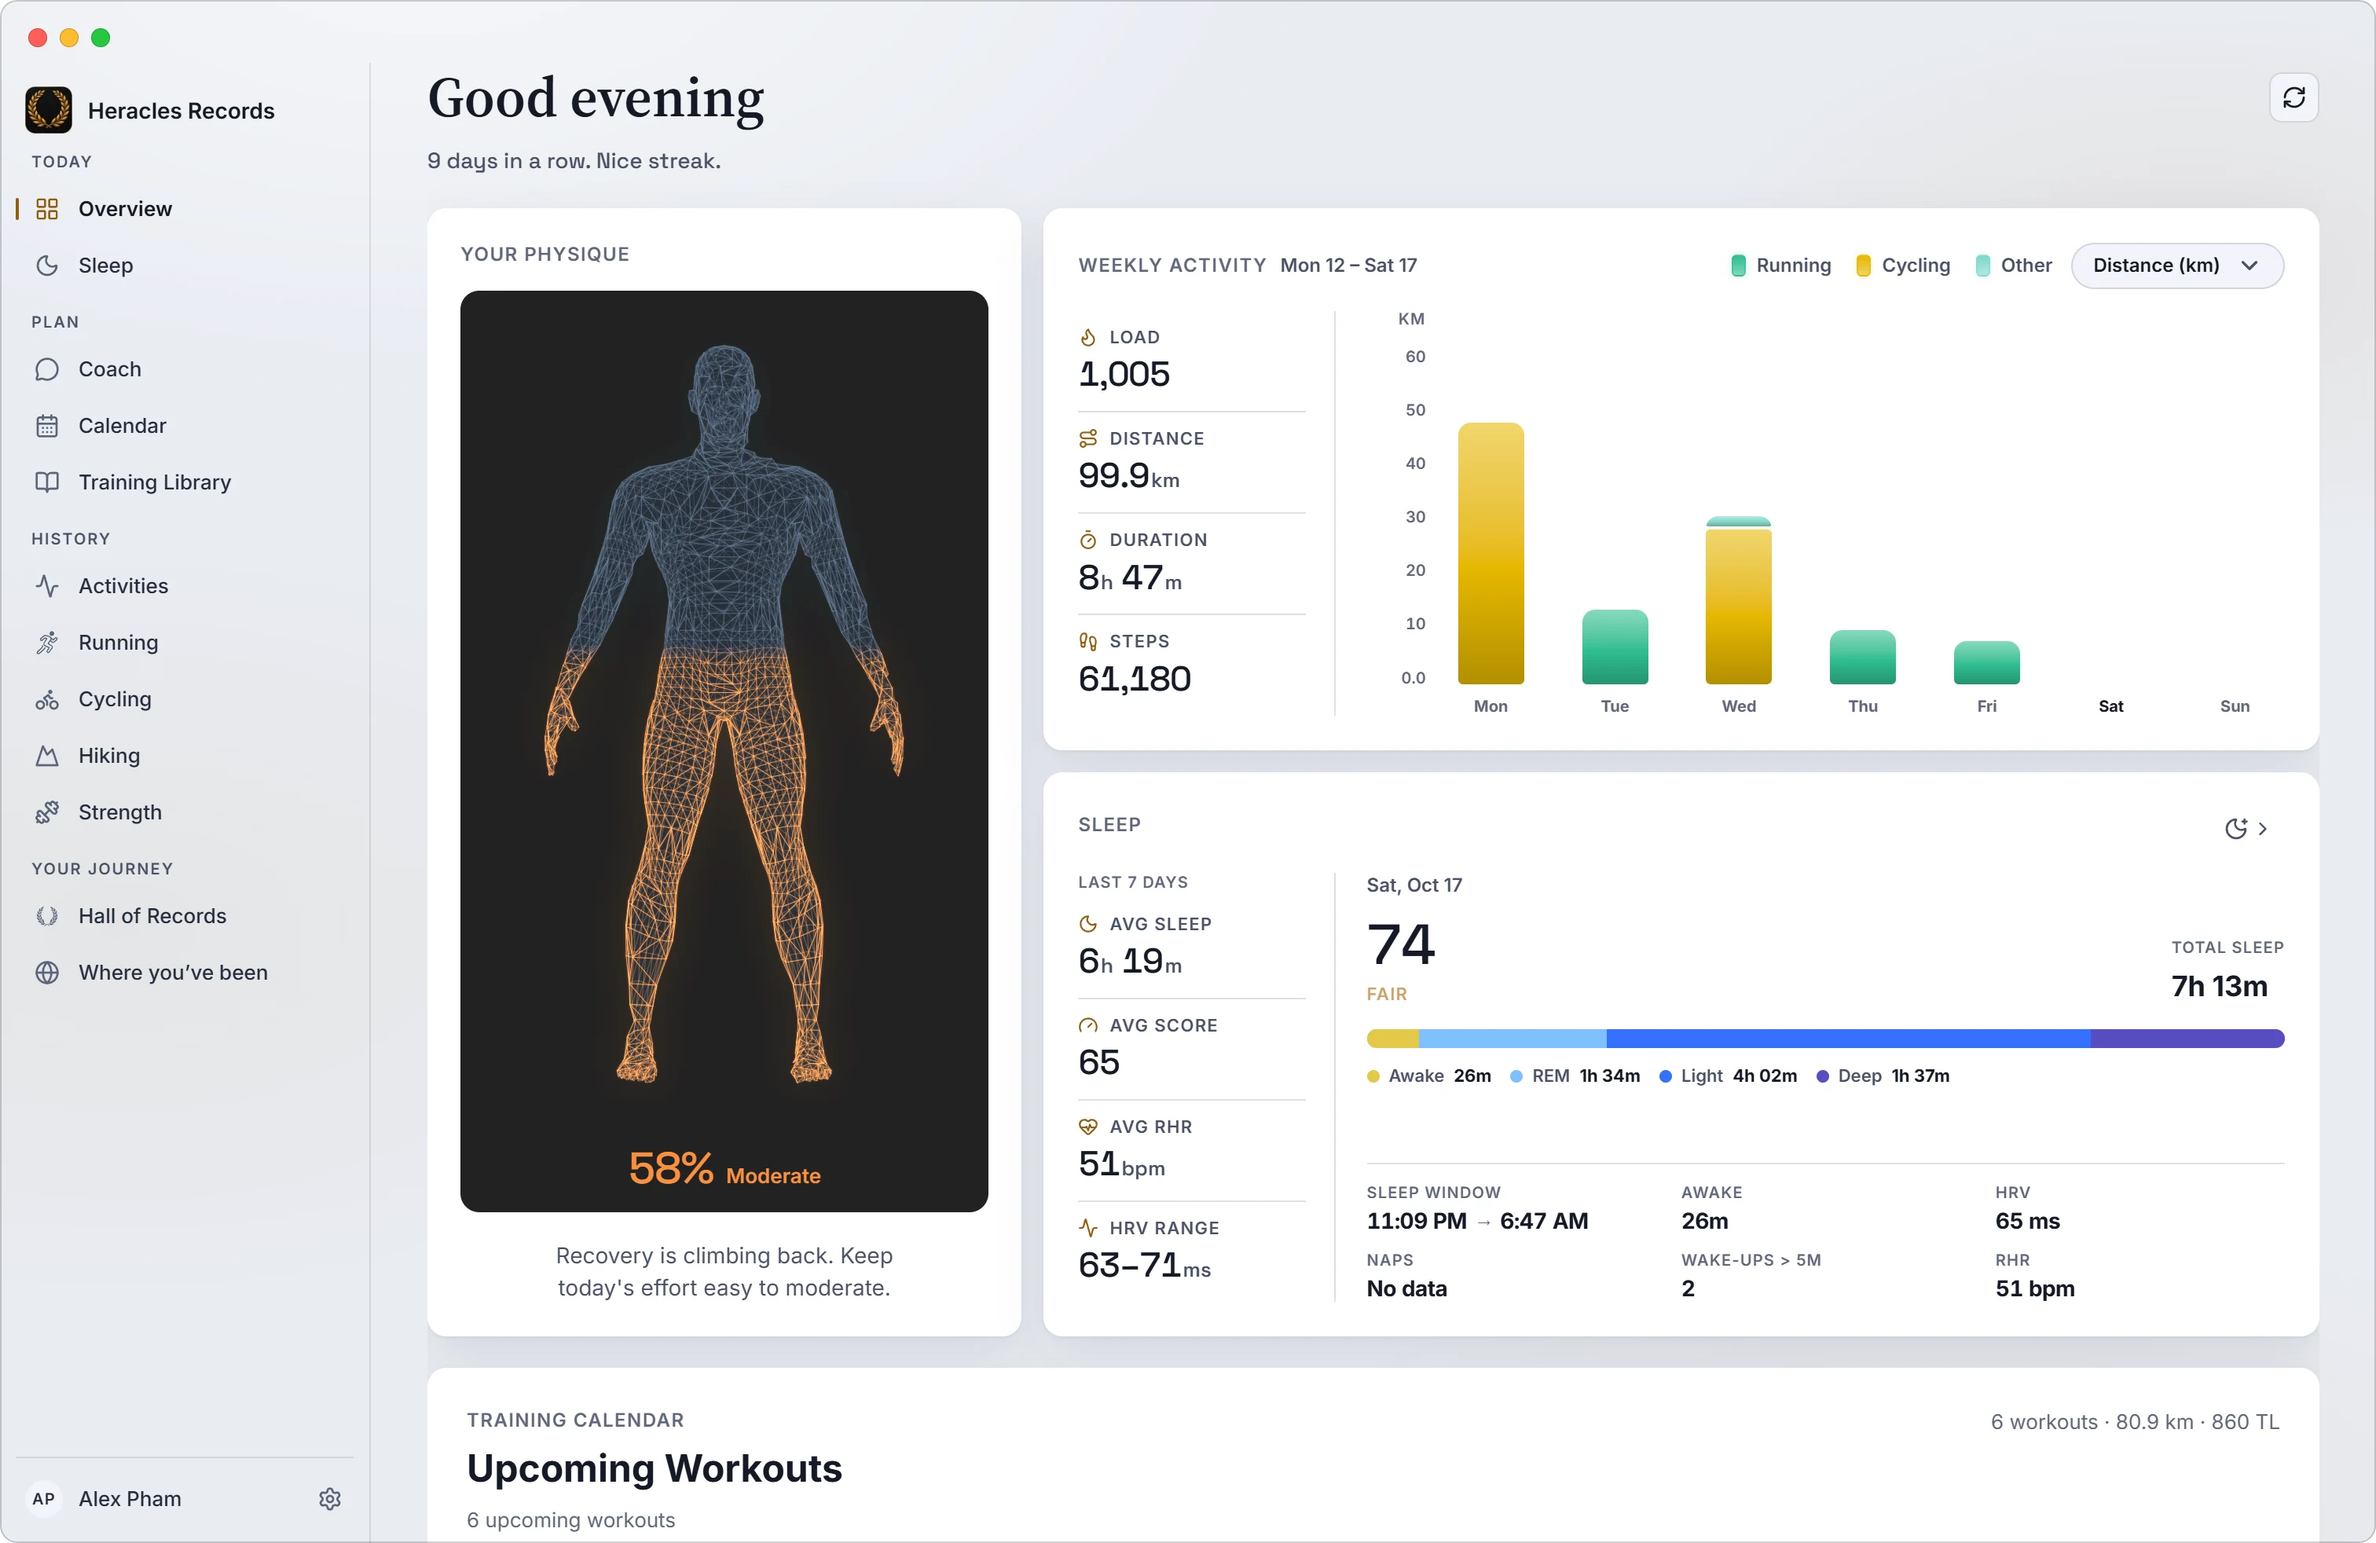
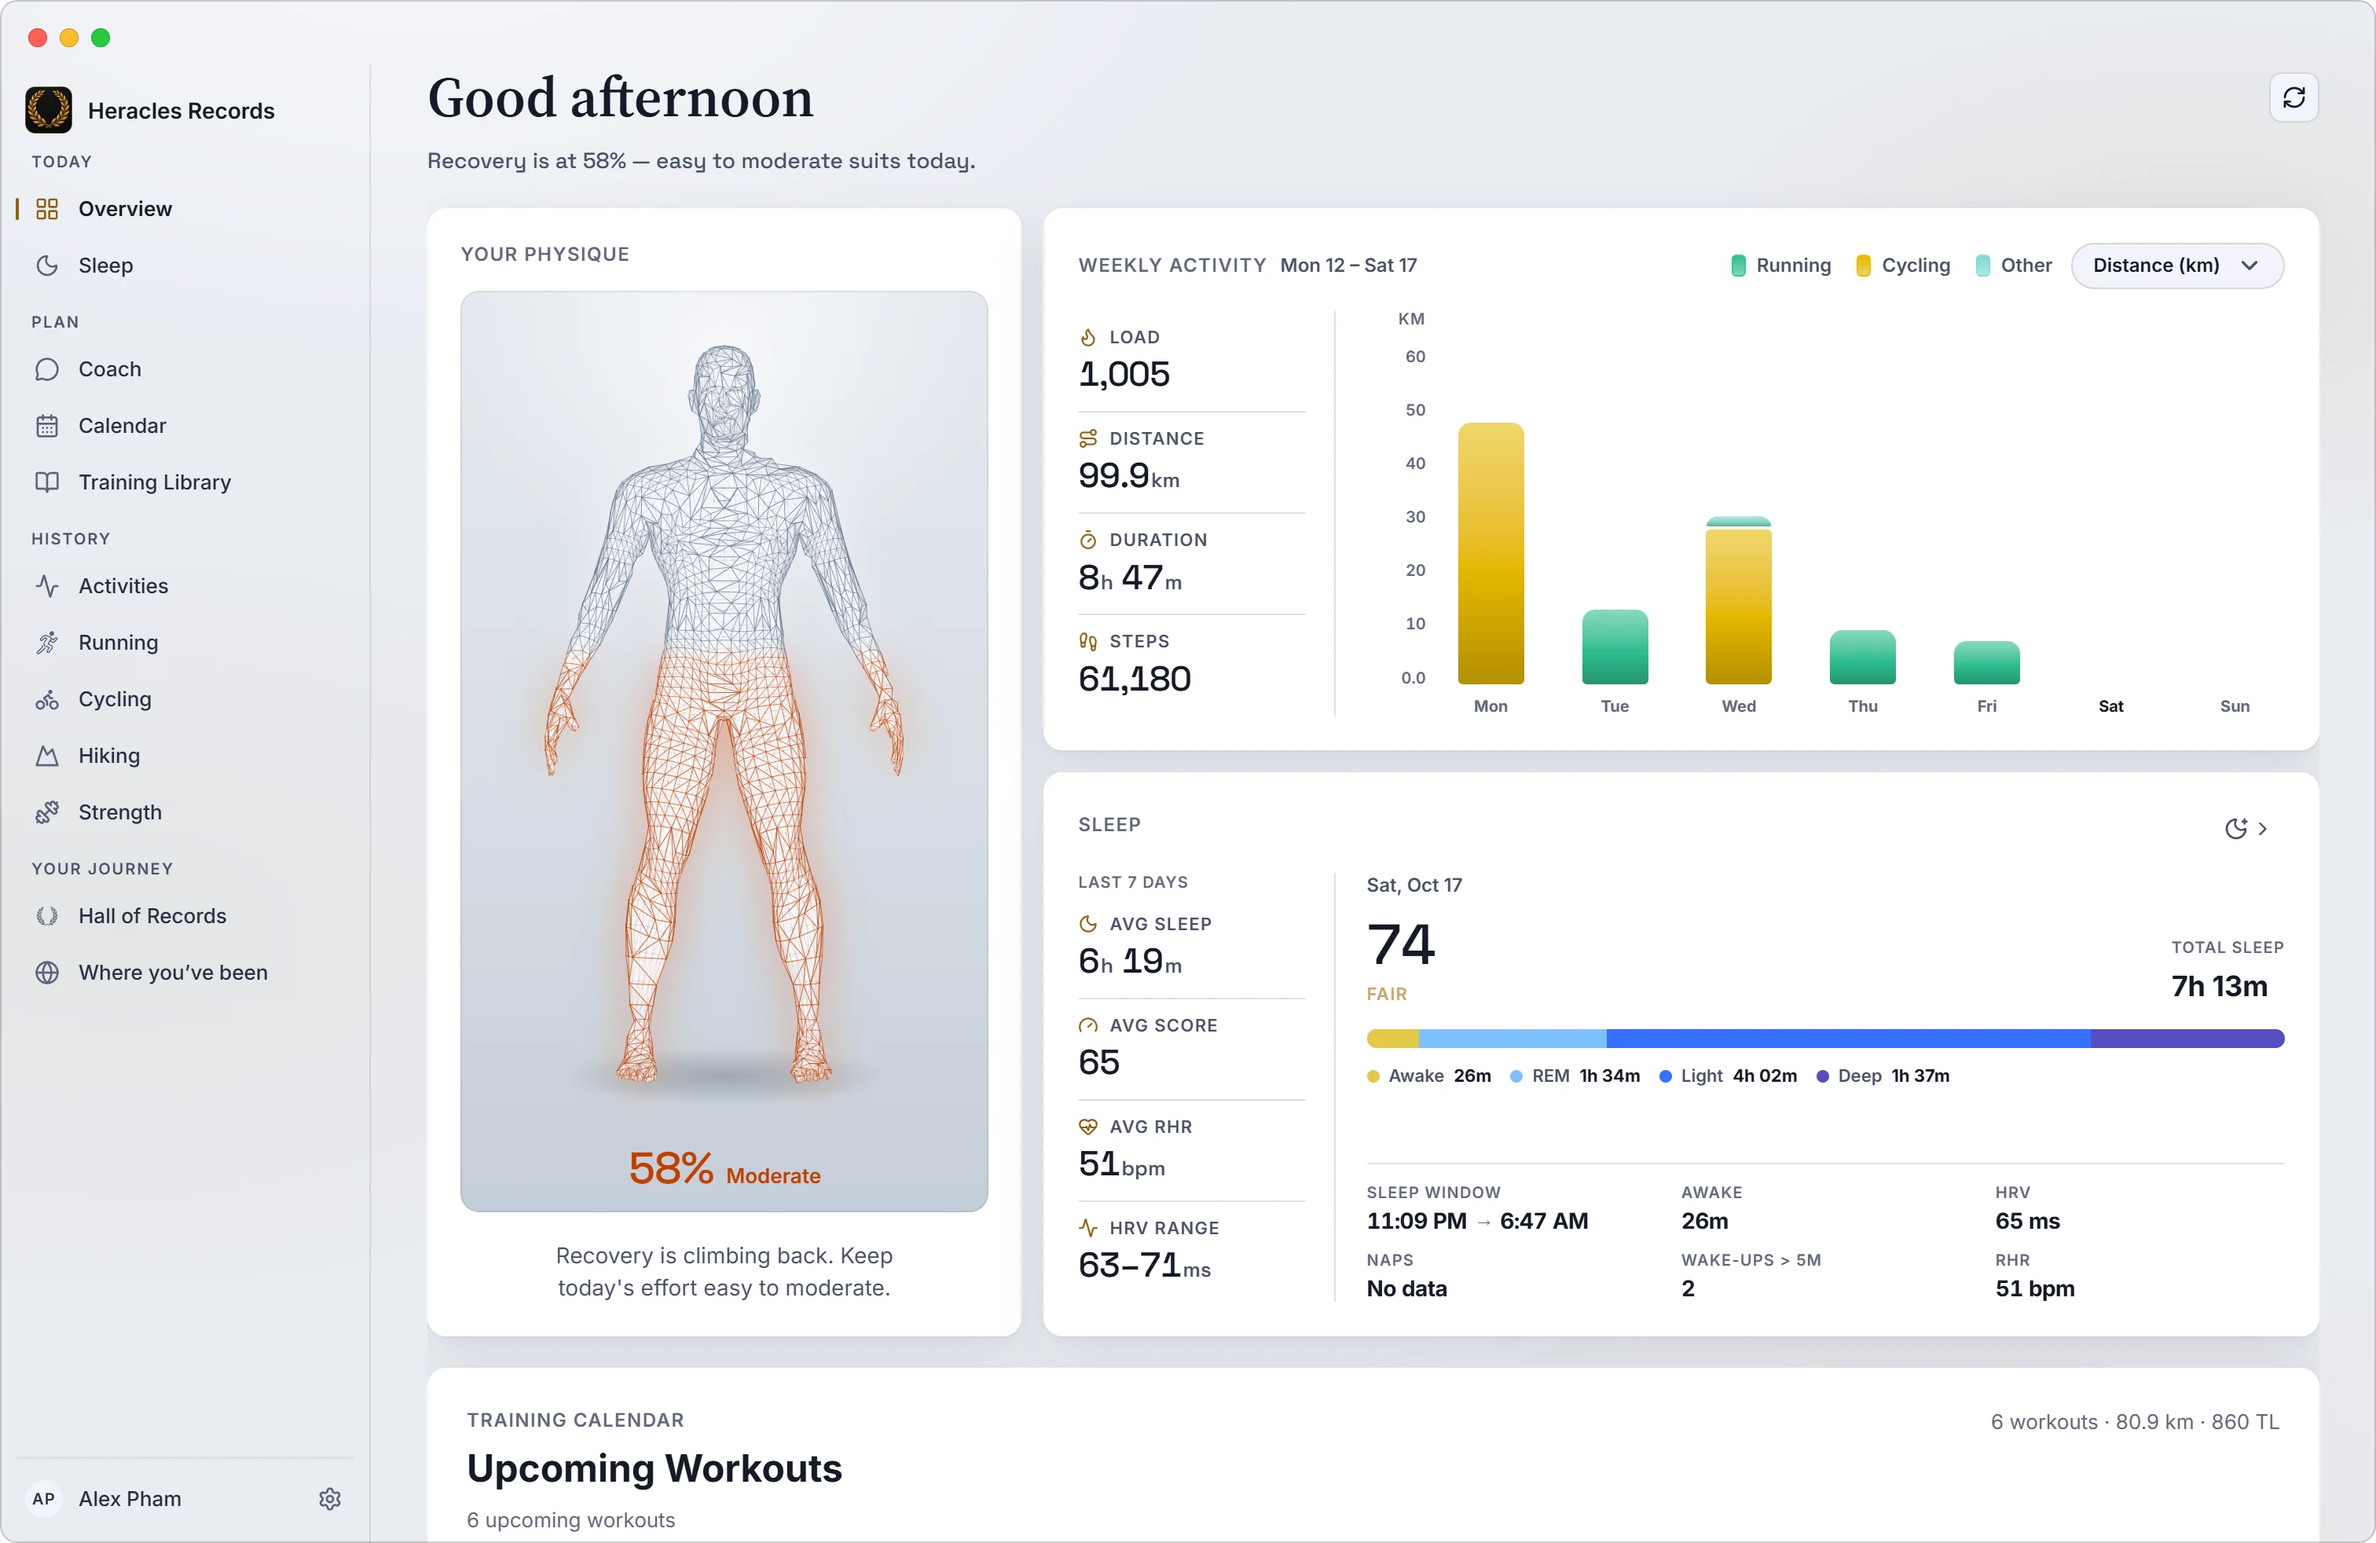
Paper: the physique stands on Strength's slate stage
On paper the figure was the dark theme's, added onto a #222222 stage, and
that read as a hole cut in the white card, a neutral grey with nothing of
paper's cool canvas in it. It stands on the slate stage the Strength body
map uses now: a frosted white body with an ink mesh in normal blending, no
bloom, the rim as slate shading, a white backlight over what is not yet
recovered and the recovery's colour over what is, and a shadow at the soles.

Paper has its own ramp, since the dark one's lime-yellow 70% all but
vanishes on white, and the lines and the words take it darker through
oklch(from ...) rather than a mix toward an ink, which turned orange red.
The halo has a gradient of its own and the floor is drawn in the SVG, so it
follows the soles into the wide frame; both are unchanged in the dark,
where the panel is the same pixel for pixel.

The appearance pair is reshot, and the download card that uses it.

Changed region(s): [[0.1865, 0.1864, 0.4352, 0.8075], [0.1865, 0.0311, 0.4041, 0.1242]]

diff --git a/src/styles.css b/src/styles.css
@@ -6470,10 +6470,12 @@ td span {
   overflow: visible;
 }
 
-/* The figure's stage is dark in both themes: the figure is light added onto
-   it (`plus-lighter`), and paper's own grey stage, drawn in ink, read as
-   washed out. The figure's colours and strengths (BodyFigure.tsx) live here;
-   `--figure-tone` is the recovery's colour, mixed on the panel (above). */
+/* The figure's stage is dark, and the figure is light added onto it
+   (`plus-lighter`); paper stands it on a slate stage of its own (under
+   "Recovery panel" in the paper block). The figure's colours and strengths
+   (BodyFigure.tsx) live here; `--figure-tone` is the recovery's colour, mixed
+   on the panel (above). The halo takes the lines' colours, and the floor is
+   clear: a dark stage has none. */
 .recovery-figure {
   --figure-rim: 0.1;
   --figure-skin-alpha: 1;
@@ -6484,6 +6486,9 @@ td span {
   --figure-dim: #3b5068;
   --figure-idle: #46b8ff;
   --figure-tone: var(--figure-idle);
+  --figure-halo-dim: var(--figure-dim);
+  --figure-halo-lit: var(--figure-tone);
+  --figure-floor: transparent;
   position: relative;
   width: 100%;
   height: 100%;
@@ -6558,6 +6563,23 @@ td span {
 
 .body-figure-lit {
   stop-color: var(--figure-tone);
+}
+
+.body-figure-halo-dim {
+  stop-color: var(--figure-halo-dim);
+}
+
+.body-figure-halo-lit {
+  stop-color: var(--figure-halo-lit);
+}
+
+.body-figure-floor-core {
+  stop-color: var(--figure-floor);
+}
+
+.body-figure-floor-edge {
+  stop-color: var(--figure-floor);
+  stop-opacity: 0;
 }
 
 /* Under the figure's feet: on a narrow stage the camera stands the figure
@@ -17097,10 +17119,58 @@ td span {
 }
 
 /* --- Recovery panel ------------------------------------------------------- */
-/* The figure is the dark theme's on paper too; its stage is a step lighter,
-   so the black does not sit as a hole in a white page. */
+/* The figure stands as Strength's body map does on paper: on a cool slate
+   stage darkening toward the floor, the dark stage's graphite lifted into the
+   light. A dark stage was kept here first, `#222222`, and read as a hole cut
+   in the white card. The body is frosted white with an ink mesh, laid on in
+   normal blending, since light added onto a light stage only washes it out;
+   what is recovered is the recovery's colour taken darker, backlit by the
+   colour itself, and the rest is backlit white. The ramp is paper's own: the
+   dark one's lime-yellow 70% all but vanishes against white. */
+:root[data-theme="paper"] .training-recovery-panel {
+  --figure-low: #e5484d;
+  --figure-mid: #f06d1f;
+  --figure-high: #c4b10e;
+  --figure-full: #20b26b;
+  --figure-peak: #1f96ee;
+}
+
 :root[data-theme="paper"] .recovery-figure {
-  background: #222222;
+  --figure-rim: 0.3;
+  --figure-line: 0.75;
+  --figure-back-line: 0.16;
+  --figure-halo: 0.4;
+  --figure-skin: #f5f7fa;
+  --figure-dim: #66778d;
+  --figure-idle: #1f96ee;
+  --figure-tone: oklch(from var(--figure-idle) calc(l * 0.8) c h);
+  --figure-halo-dim: #ffffff;
+  --figure-halo-lit: var(--figure-idle);
+  --figure-floor: rgba(20, 32, 48, 0.24);
+  background:
+    radial-gradient(70% 38% at 50% 6%, rgba(255, 255, 255, 0.65), transparent 72%),
+    linear-gradient(180deg, #e4e9ef 0%, #d6dde5 55%, #c4cdd8 100%);
+  box-shadow: inset 0 0 0 1px rgba(19, 26, 40, 0.08);
+}
+
+/* Darker in the same hue: mixed toward an ink in OKLCH, orange turned red. */
+:root[data-theme="paper"] .training-recovery-panel:not(.tone-neutral) .recovery-figure {
+  --figure-tone: oklch(from var(--recovery-tone) calc(l * 0.8) c h);
+  --figure-halo-lit: var(--recovery-tone);
+}
+
+:root[data-theme="paper"] .body-figure {
+  mix-blend-mode: normal;
+}
+
+/* The bloom is a glow, and on a light stage it only blurs the mesh. */
+:root[data-theme="paper"] .body-figure-lines {
+  filter: none;
+}
+
+/* The rim shades the body's turning edges, which gives the white its volume. */
+:root[data-theme="paper"] .body-figure-rim {
+  fill: #4f5f75;
 }
 
 /* --- Training Hub: export dropdown ----------------------------------------- */

diff --git a/src/training/body/BodyFigure.tsx b/src/training/body/BodyFigure.tsx
@@ -51,6 +51,7 @@ export function BodyFigure({ sex, shape, firmness, level }: BodyFigureProps) {
   // No reading lights the whole figure in the idle colour (`--figure-tone`).
   const fill = level === undefined ? 1 : level / 100;
   const levelY = drawing.levelY(fill);
+  const soles = drawing.levelY(0);
   const lines = `url(#${id}-lines)`;
 
   return (
@@ -73,6 +74,26 @@ export function BodyFigure({ sex, shape, firmness, level }: BodyFigureProps) {
           <stop offset="0" className="body-figure-dim" />
           <stop offset="1" className="body-figure-lit" />
         </linearGradient>
+        {/* The halo's own, across the same band: the lines' colours in the
+            dark, a white backlight over the tone on paper. */}
+        <linearGradient
+          id={`${id}-glow`}
+          gradientUnits="userSpaceOnUse"
+          x1="0"
+          x2="0"
+          y1={levelY - drawing.levelEdge}
+          y2={levelY + drawing.levelEdge}
+        >
+          <stop offset="0" className="body-figure-halo-dim" />
+          <stop offset="1" className="body-figure-halo-lit" />
+        </linearGradient>
+        {/* The shadow the figure stands in, drawn here rather than on the
+            stage so it follows the soles from one frame to the other. Its
+            colour is clear on the dark stage, which has no floor. */}
+        <radialGradient id={`${id}-floor`}>
+          <stop offset="0" className="body-figure-floor-core" />
+          <stop offset="1" className="body-figure-floor-edge" />
+        </radialGradient>
         {/* The glow is two things. The lines' own, a tight blur added back
             onto them; and a halo, the outline blurred wide under the opaque
             skin so only what spills past the edge shows — glowing the lines
@@ -86,7 +107,15 @@ export function BodyFigure({ sex, shape, firmness, level }: BodyFigureProps) {
           <feGaussianBlur stdDeviation="60" />
         </filter>
       </defs>
-      <path className="body-figure-halo" d={drawing.skin} fill={lines} filter={`url(#${id}-halo)`} />
+      <ellipse
+        className="body-figure-floor"
+        cx={drawing.width / 2}
+        cy={soles}
+        rx={drawing.width * 0.46}
+        ry={drawing.height * 0.04}
+        fill={`url(#${id}-floor)`}
+      />
+      <path className="body-figure-halo" d={drawing.skin} fill={`url(#${id}-glow)`} filter={`url(#${id}-halo)`} />
       <path className="body-figure-skin" d={drawing.skin} />
       <g className="body-figure-rim">
         {drawing.rim.map((layer) => (

diff --git a/CLAUDE.md b/CLAUDE.md
@@ -2184,10 +2184,17 @@ lives at module level for the same visit-to-visit reason — see `useCalendarDat
   opaque skin, so only what spills past the edge shows; glowing the lines wide lights the
   whole body as a haze. Every colour and strength is a custom property on the stage
   (`--figure-*`), stepped at 2x (`min-resolution: 1.5dppx`), where a line is one device pixel.
-  **Both themes draw the same figure on a black stage** (paper's a step lighter, `#222222`). Paper had its own — first a
-  dark-grey stage with the glow turned down (washed out and flat), then a light grey one with
-  the lines in ink, deeper tones in normal blending — and the athlete judged both uglier than
-  the dark one on a white page. "88% Ready" sits on the stage: under the feet on a narrow
+  **Paper stands the figure on Strength's slate stage** (since 2026-10-23, picked from a mockup of
+  five): `#e4e9ef` → `#c4cdd8`, a frosted white body (`--figure-skin`), an ink mesh in normal
+  blending with no bloom, the rim as slate shading, the halo a white backlight over the lit part
+  (`--figure-halo-dim`/`-lit`, a gradient of its own so the dark theme's halo is unchanged), a
+  floor shadow drawn in the SVG at the soles (`body-figure-floor`, clear in the dark) so it
+  follows both frames, and a **ramp of its own** (`--figure-*` redeclared on the paper panel:
+  the dark one's lime 70% vanishes on white), taken darker for the lines and the words with
+  `oklch(from … calc(l * 0.8) c h)` — mixed toward an ink in OKLCH, orange turned red. Before it
+  paper drew the dark figure on `#222222`, which read as a hole cut in the white card; earlier
+  still a dark-grey stage with the glow turned down and a flat light grey one with ink lines
+  were both judged uglier. "88% Ready" sits on the stage: under the feet on a narrow
   stage, on the fill line beside the figure from 560px (`WIDE_STAGE_MIN_PX`, the same width as
   the CSS container query; the stylesheet places the drawing at `NARROW_FRAME`/`WIDE_FRAME`
   of `bodyFigureMath.ts` — `test:body-figure` holds the two together — and the line is found
